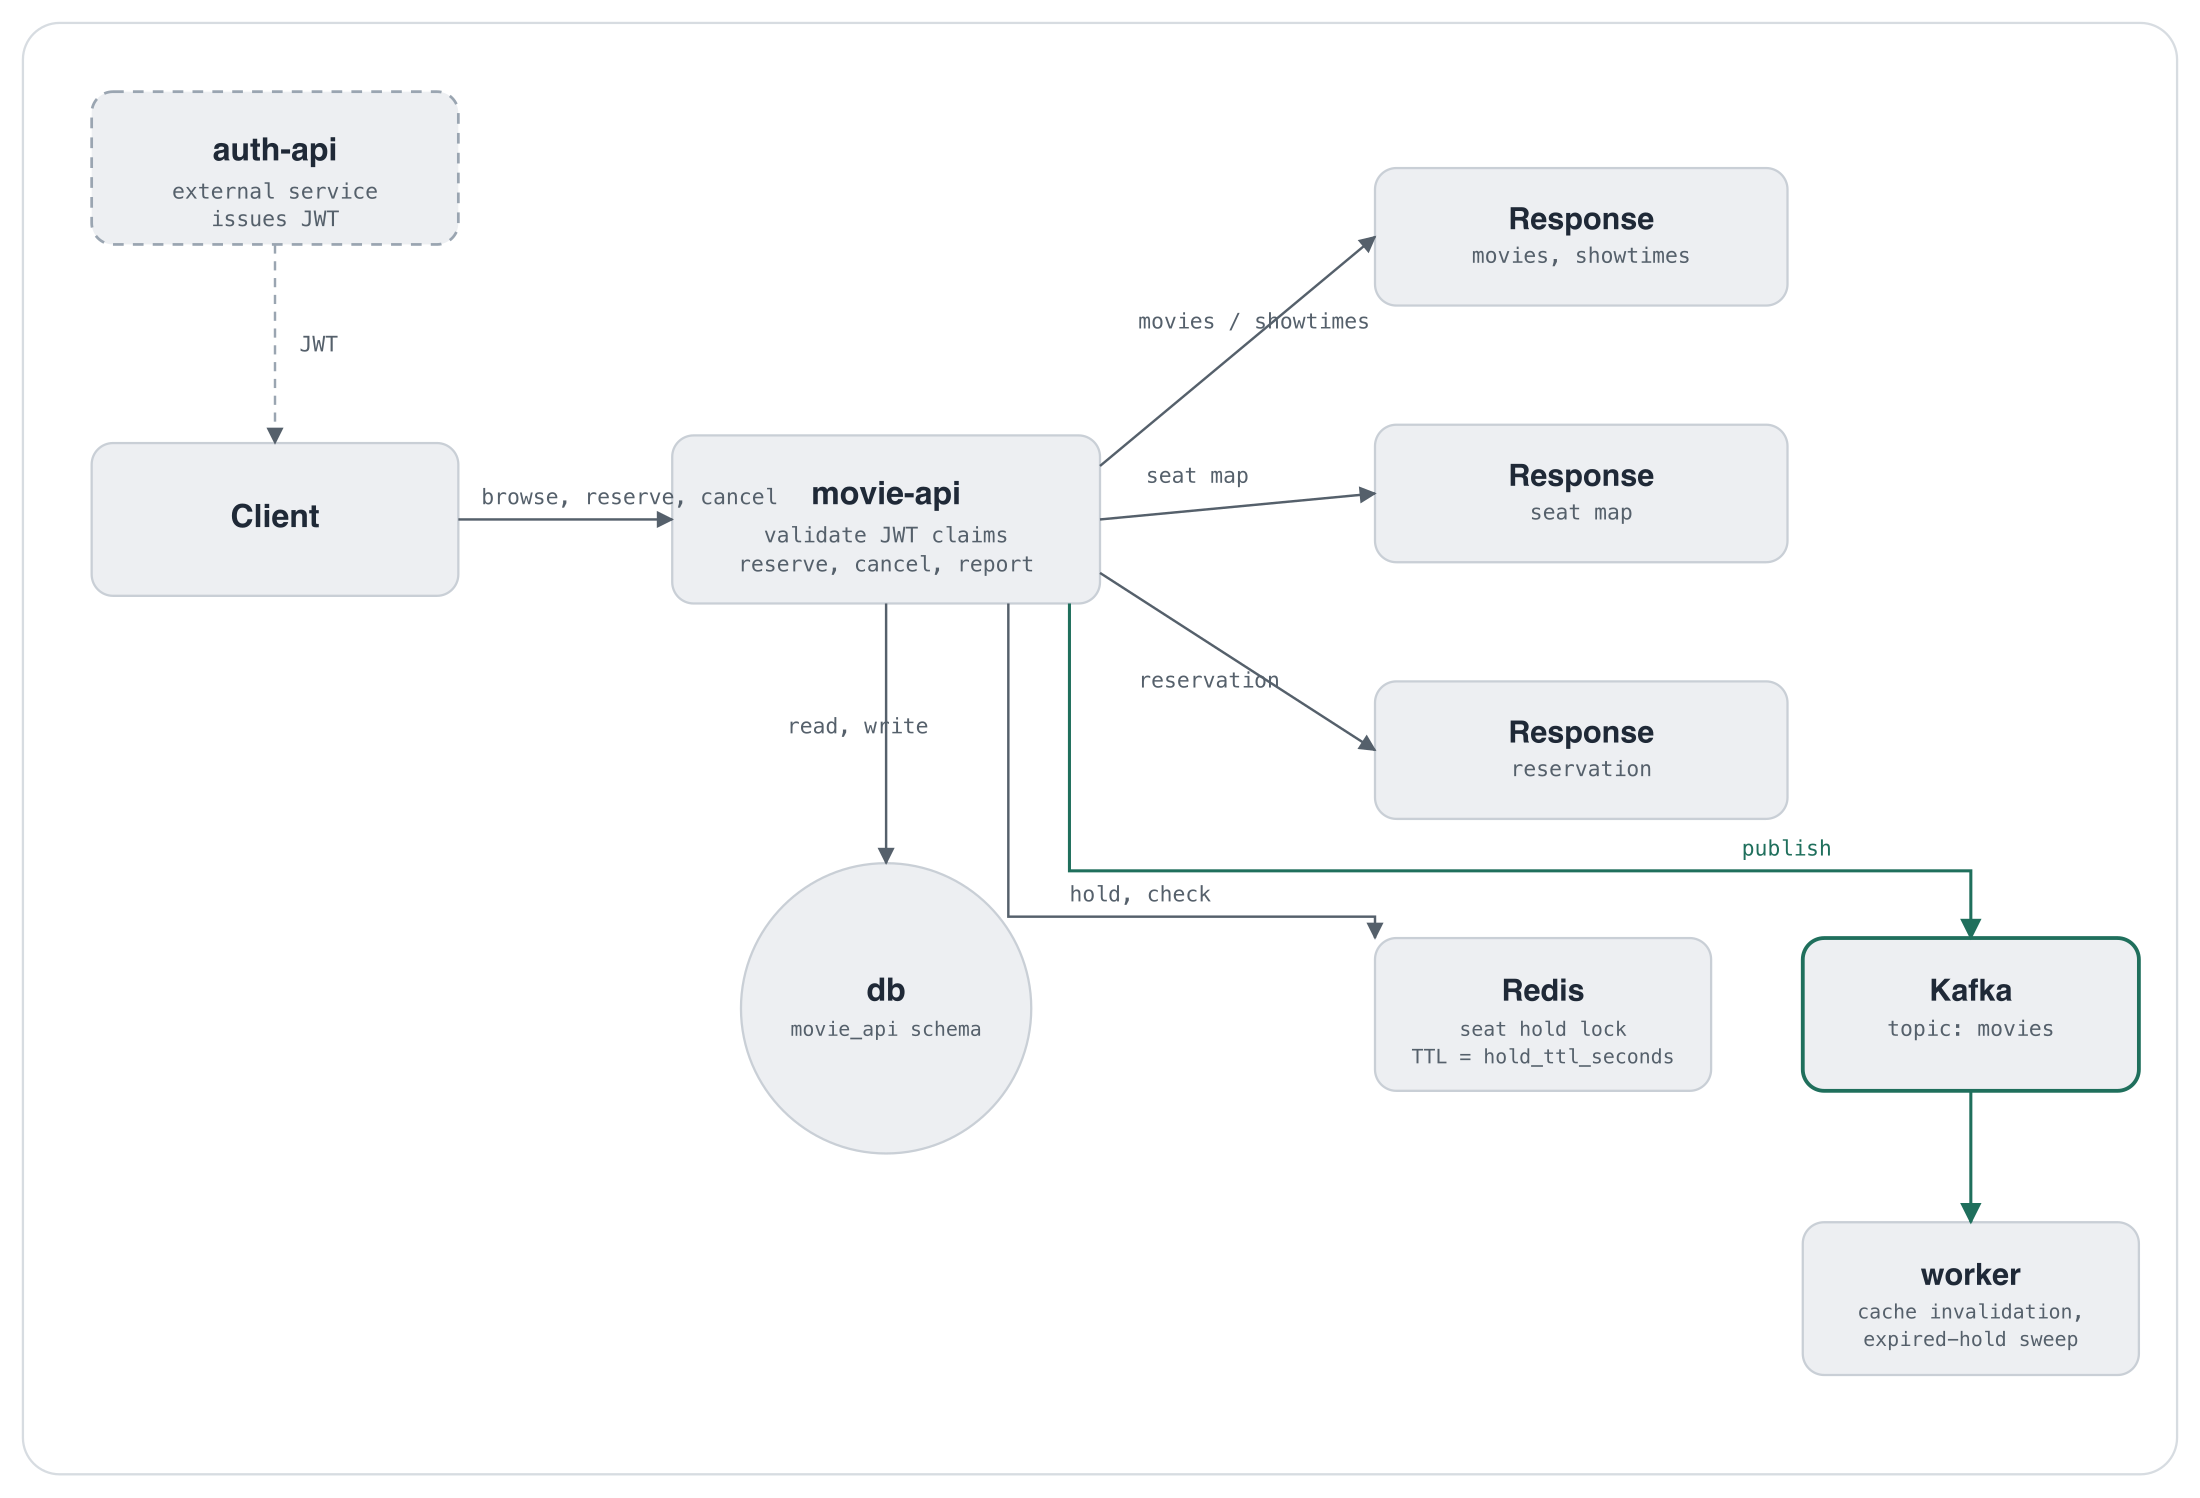
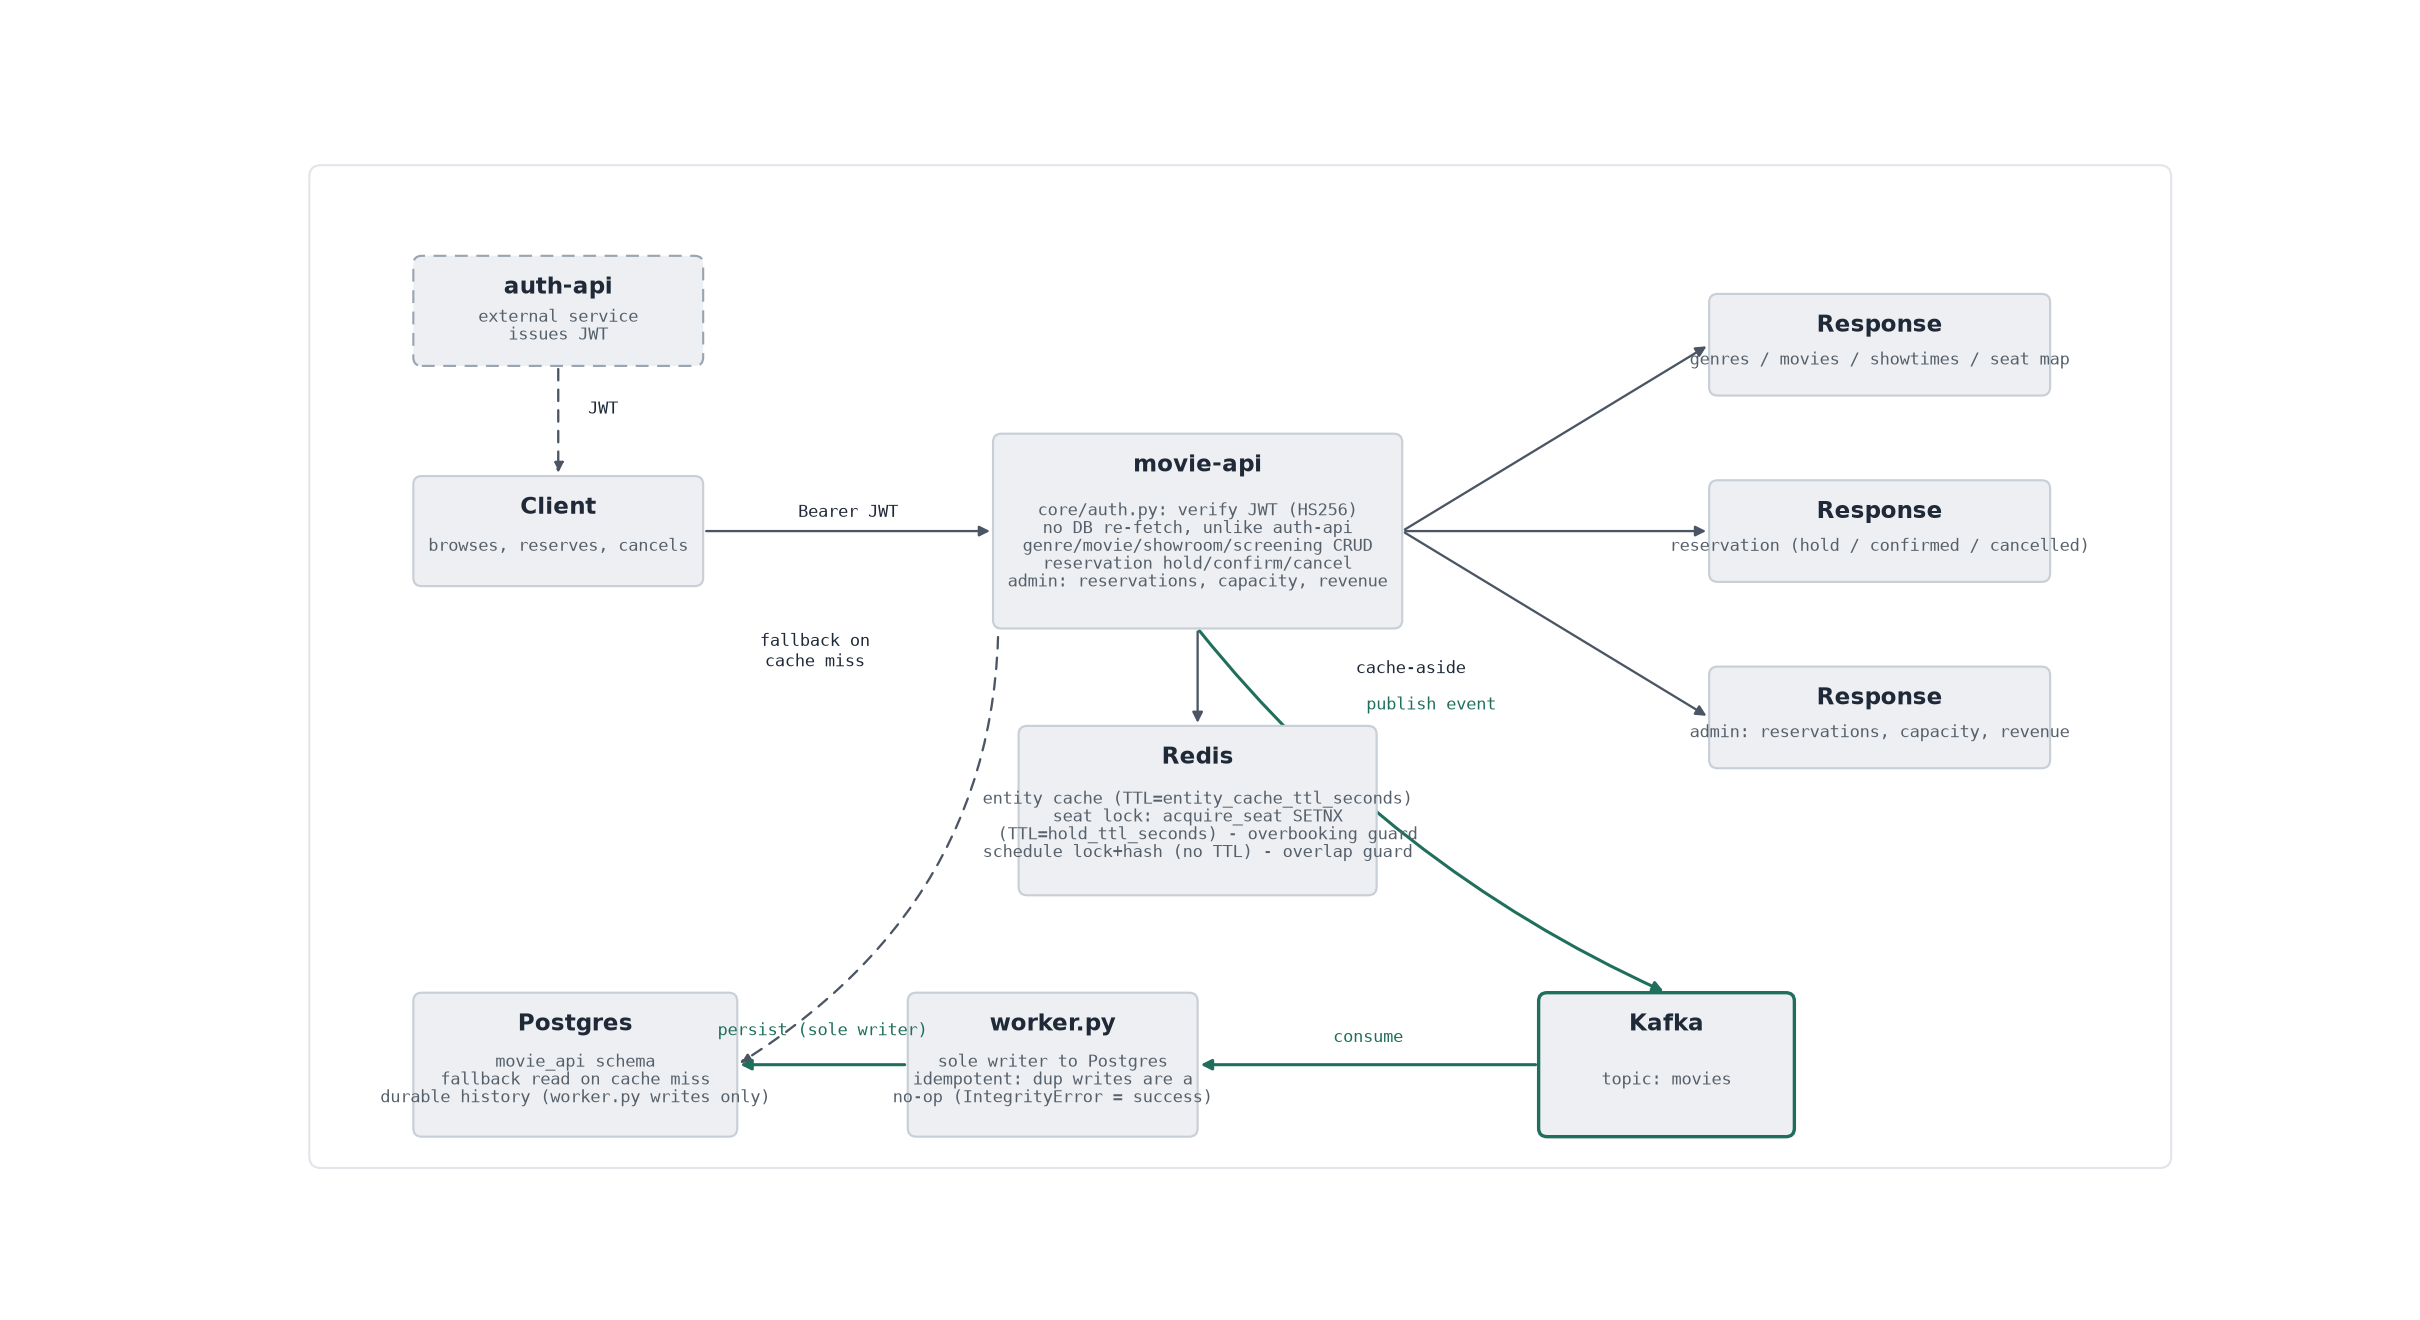
Use timezone-aware current time instead of None for freshly-created timestamps, and refresh the movie_api design diagrams
created_at/updated_at were hardcoded to None in the Redis-cached payload returned right after create, since the real value is only known once worker.py's async Postgres write lands. Using datetime.now(timezone.utc).isoformat() instead gives clients a correct, timezone-aware value immediately, matching the timestamp worker.py's insert will produce moments later.

The two design diagrams (movie system design.png, reservation lifecycle.png) predated this session's Redis-first/Kafka-worker rework and still showed the old Postgres-unique-index overbooking model; regenerated them to reflect the current architecture: cache-aside reads with Postgres fallback, Redis-first writes publishing events for worker.py to persist, and Redis SETNX (not Postgres) as the actual overbooking/overlap guard.

diff --git a/movie_api/services/showroom.py b/movie_api/services/showroom.py
@@ -1,3 +1,4 @@
+from datetime import datetime, timezone
 from typing import Any
 from uuid import UUID, uuid4
 
@@ -26,7 +27,7 @@ class ShowroomService:
             "id": str(showroom_id),
             "name": showroom_create.name,
             "capacity": showroom_create.capacity,
-            "created_at": None,
+            "created_at": datetime.now(timezone.utc).isoformat(),
         }
         await self.redis_repo.save(data)
         await self.producer.publish(
@@ -41,6 +42,7 @@ class ShowroomService:
     async def bulk_create_seats(
         self, showroom_id: UUID, rows: list[str], seats_per_row: int
     ) -> list[dict[str, Any]]:
+        now = datetime.now(timezone.utc).isoformat()
         seats = []
         for row in rows:
             for number in range(1, seats_per_row + 1):
@@ -59,7 +61,7 @@ class ShowroomService:
                         "showroom_id": str(showroom_id),
                         "row": row,
                         "number": number,
-                        "created_at": None,
+                        "created_at": now,
                     }
                 )
 

diff --git a/movie_api/services/movie.py b/movie_api/services/movie.py
@@ -1,3 +1,4 @@
+from datetime import datetime, timezone
 from typing import Any
 from uuid import UUID, uuid4
 
@@ -36,6 +37,7 @@ class MovieService:
         await self._validate_genre_ids(movie_create.genre_ids)
 
         movie_id = uuid4()
+        now = datetime.now(timezone.utc).isoformat()
         data = {
             "id": str(movie_id),
             "title": movie_create.title,
@@ -45,8 +47,8 @@ class MovieService:
             if movie_create.release_date
             else None,
             "duration_minutes": movie_create.duration_minutes,
-            "created_at": None,
-            "updated_at": None,
+            "created_at": now,
+            "updated_at": now,
             "genre_ids": [str(genre_id) for genre_id in movie_create.genre_ids],
         }
         await self.redis_repo.save(data)

diff --git a/movie_api/services/screening.py b/movie_api/services/screening.py
@@ -67,13 +67,14 @@ class ScreeningService:
             await self.redis_repo.add_to_schedule(showroom_id, showtime_id, start_time, end_time)
             await self.redis_repo.mark_screening(movie_id, showroom_id, showtime_id)
 
+            now = datetime.now(timezone.utc).isoformat()
             showtime_data = {
                 "id": str(showtime_id),
                 "start_time": start_time.isoformat(),
                 "end_time": end_time.isoformat(),
                 "price": str(screening_create.price),
-                "created_at": None,
-                "updated_at": None,
+                "created_at": now,
+                "updated_at": now,
             }
             await self.redis_repo.save_showtime(showtime_data)
             await self.redis_repo.add_to_date_index(

diff --git a/movie_api/services/genre.py b/movie_api/services/genre.py
@@ -1,3 +1,4 @@
+from datetime import datetime, timezone
 from typing import Any
 from uuid import UUID, uuid4
 
@@ -25,7 +26,8 @@ class GenreService:
         if not await self.redis_repo.reserve_name(genre_create.name, genre_id):
             raise ValueError("Genre already exists")
 
-        data = {"id": str(genre_id), "name": genre_create.name, "created_at": None}
+        now = datetime.now(timezone.utc).isoformat()
+        data = {"id": str(genre_id), "name": genre_create.name, "created_at": now}
         await self.redis_repo.save(data)
         await self.producer.publish(
             TOPIC, Event(event_type=EventType.GENRE_CREATED, payload=data), key=str(genre_id)
